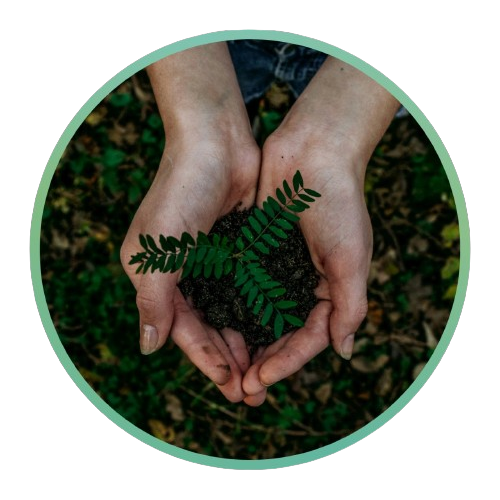
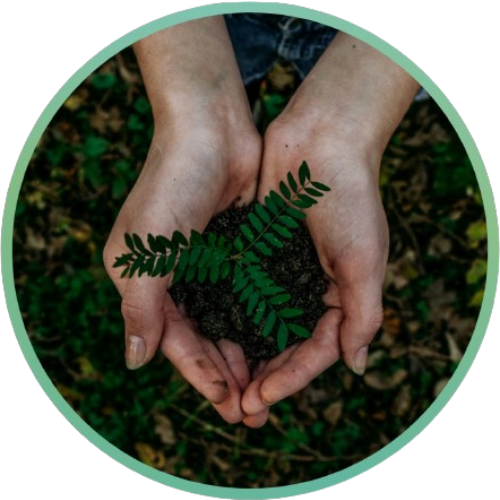
Iniciando responsividade

diff --git a/src/components/Section5.jsx b/src/components/Section5.jsx
@@ -2,6 +2,9 @@ import styled from "styled-components";
 import Cima from '../assets/cima.png';
 import Baixo from '../assets/baixo.png';
 import ImgPlanta from '../assets/ImgPlanta.png'
+import ImgLuz from '../assets/ImgLuz.png'
+import ImgArvores from '../assets/ImgArvores.png'
+import { useState } from "react";
 
 const ContribuaWrapper = styled.section`
     width: auto;
@@ -65,10 +68,41 @@ const ImgSeta = styled.img`
 const ImgP = styled.img`
     width: 600px;
     height: 600px;
+    transition: width 2s, height 2s, transform 2s;
+`
+
+const Botão = styled.button`
+    background: none;
+    border: none;
+    cursor: pointer;
+    width: fit-content;
+    height: fit-content;
 `
 
 
 function Section5() {
+    const imagens = [ImgArvores, ImgLuz, ImgPlanta];
+    var i = 0;
+
+
+    function mudaImagem(lado){
+        if(lado == "cima"){
+            i++
+            if(i > 2){
+                i = 0
+            }
+        }else if(lado == "baixo"){
+            i--
+            if(i < 0){
+                i = 2
+            }
+        }
+        console.log(i)
+        setImagem(imagens[i])
+    }
+
+    const [imagem, setImagem] = useState(imagens[i])
+
     return (
         <ContribuaWrapper>
             <LadoEsquerdo>
@@ -81,9 +115,9 @@ function Section5() {
                 </Textao>
             </LadoEsquerdo>
             <LadoDireito>
-                    <ImgSeta src={Cima} alt="Cima"/>
-                    <ImgP src={ImgPlanta} alt="Planta"/>
-                    <ImgSeta src={Baixo} alt="Cima"/>
+                <Botão><ImgSeta src={Cima} alt="Cima" onClick={() => mudaImagem("cima")}/></Botão>
+                <ImgP src={imagem} alt="Planta"/>
+                <Botão><ImgSeta src={Baixo} alt="Baixo" onClick={() => mudaImagem("baixo")}/></Botão>
             </LadoDireito>
         </ContribuaWrapper>
     )

diff --git a/src/components/Footer.jsx b/src/components/Footer.jsx
@@ -1,5 +1,4 @@
 import styled from "styled-components";
-import logo from '../assets/Logo.png'
 import { BiLogoLinkedin, BiLogoInstagram } from "react-icons/bi"
 import { FaGithub } from 'react-icons/fa'
 

diff --git a/src/components/Section6.jsx b/src/components/Section6.jsx
@@ -42,6 +42,8 @@ const Reviews = styled.div`
     height: auto;
     width: 100%;
     display: flex;
+    justify-content: center;
+    align-items: center;
     flex-wrap: wrap;
     gap: 10px;
 `

diff --git a/src/index.css b/src/index.css
@@ -13,3 +13,9 @@ h5,
 h6 {
   font-family: "Quantico", sans-serif;
 }
+
+html,
+body{
+  width: 100%;
+  height: 100%;
+}
